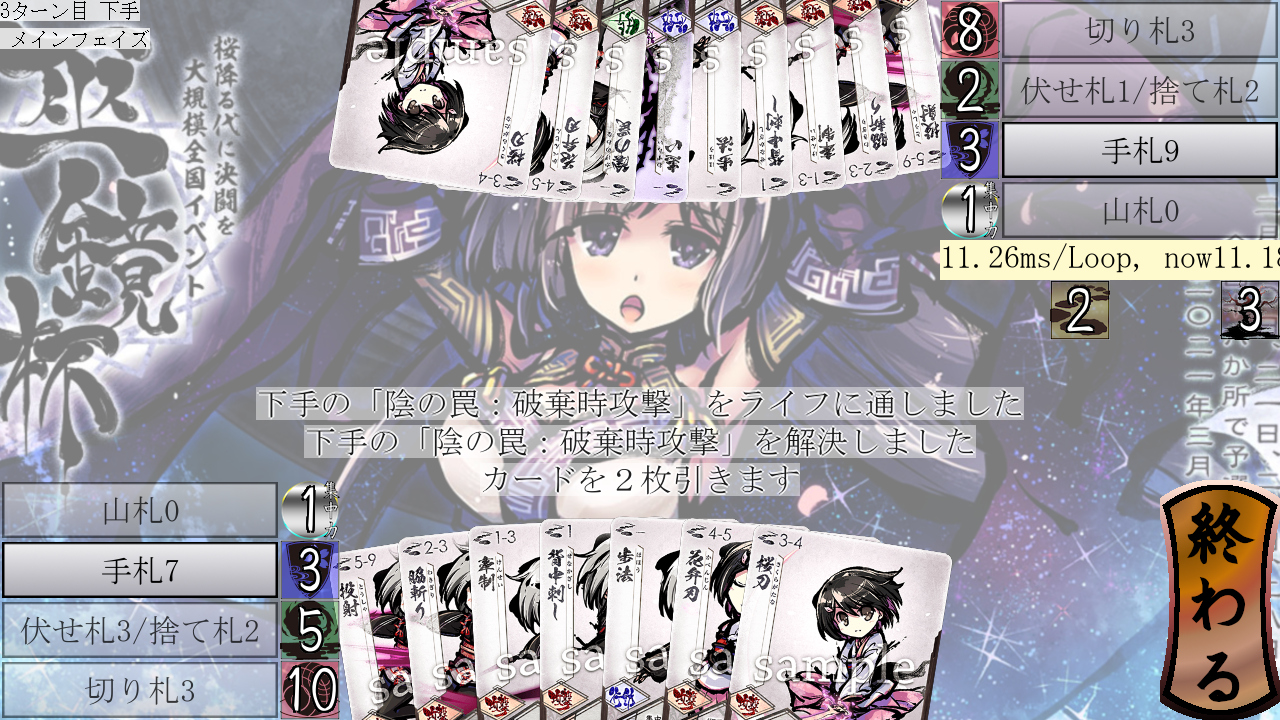
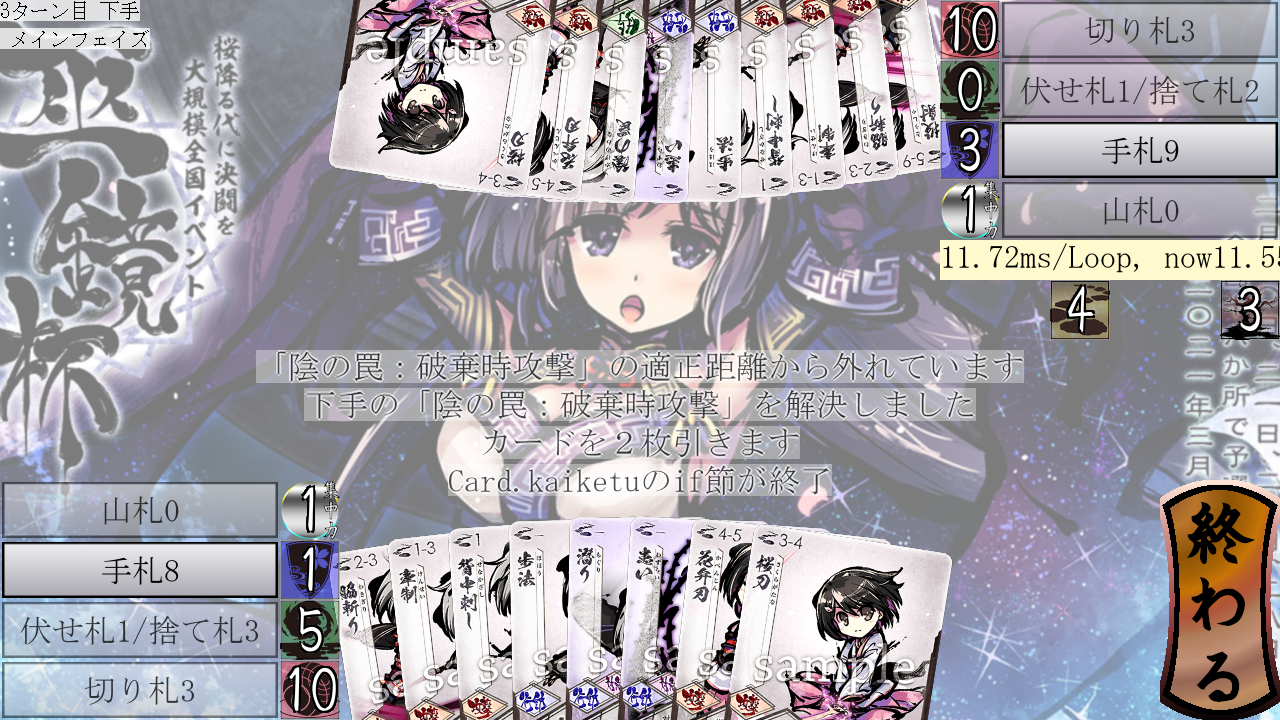
J317:圧縮したhakiziとplay_taiouを、それぞれhuyo_tabaとtaiou_tabaへ編入

diff --git a/mod/ol/play_kougeki/taiou_taba.py b/mod/ol/play_kougeki/taiou_taba.py
@@ -1,13 +1,14 @@
 from typing import Callable
 
-from mod.const import TC_TEHUDA, TC_KIRIHUDA
+from mod.const import TC_TEHUDA, TC_KIRIHUDA, POP_TAIOUED
 from mod.huda import Huda
 from mod.taba import Taba
 from mod.moderator import moderator
-from mod.ol.play_taiou import PlayTaiou
+# from mod.ol.play_taiou import PlayTaiou
 from mod.delivery import Delivery
 from mod.popup_message import popup_message
 from mod.ol.proxy_taba_factory import ProxyTabaFactory, ProxyHuda
+from mod.ol.kaiketu_layer_facotry import kaiketu_layer_factory
 
 def taiou_taba(delivery: Delivery, hoyuusya: int) -> Taba:
     return _taiou_factory(mouseup=_taiou_mouseup).maid_by_hudas(hudas=_taiou_hudas(delivery=delivery, hoyuusya=hoyuusya), hoyuusya=hoyuusya)
@@ -28,3 +29,8 @@ def _taiou_mouseup(huda: Huda) -> None:
     if not isinstance(huda, ProxyHuda):
         raise ValueError(f"Invalid huda: {huda}")
     moderator.append(over_layer=PlayTaiou(huda=huda.base))
+
+def _dih(delivery: Delivery, hoyuusya: int, huda: Huda) -> None:
+    huda.card.kaiketu(delivery, hoyuusya, huda=huda)
+
+PlayTaiou = kaiketu_layer_factory(name="の対応時効果", code=POP_TAIOUED, dih=_dih)

diff --git a/mod/ol/remove_osame/huyo_taba.py b/mod/ol/remove_osame/huyo_taba.py
@@ -3,13 +3,14 @@ from typing import Callable
 from functools import partial
 from itertools import product
 
-from mod.const import UC_DUST, TC_SUTEHUDA, TC_KIRIHUDA, USAGE_DEPLOYED, USAGE_USED
+from mod.const import UC_DUST, TC_SUTEHUDA, TC_KIRIHUDA, USAGE_DEPLOYED, USAGE_USED, POP_HAKIZI_DID
 from mod.delivery import Delivery
 from mod.huda import Huda
 from mod.taba import Taba
-from mod.ol.hakizi import Hakizi
+# from mod.ol.hakizi import Hakizi
 from mod.moderator import moderator
 from mod.ol.proxy_taba_factory import ProxyTabaFactory, ProxyHuda
+from mod.ol.kaiketu_layer_facotry import kaiketu_layer_factory
 
 def huyo_taba(delivery: Delivery, hoyuusya: int, pop_func: Callable[[], None]) -> Taba:
     return _huyo_factory(
@@ -39,3 +40,8 @@ def _huyo_mouseup(huda: Huda, pop_func: Callable[[], None]) -> None:
         moderator.append(Hakizi(huda=base))
         return
     pop_func()
+
+def _dih(delivery: Delivery, hoyuusya: int, huda: Huda) -> None:
+    huda.card.hakizi(delivery, hoyuusya)
+
+Hakizi = kaiketu_layer_factory(name="の破棄時効果", code=POP_HAKIZI_DID, dih=_dih)
